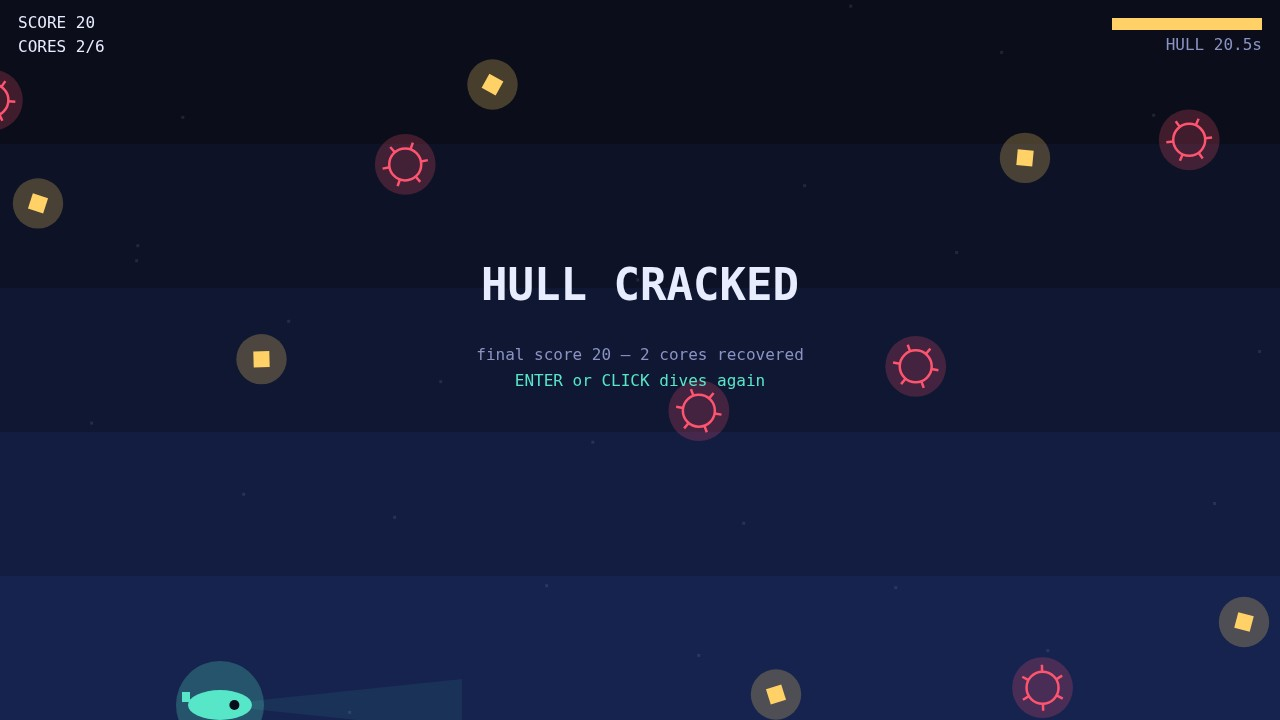
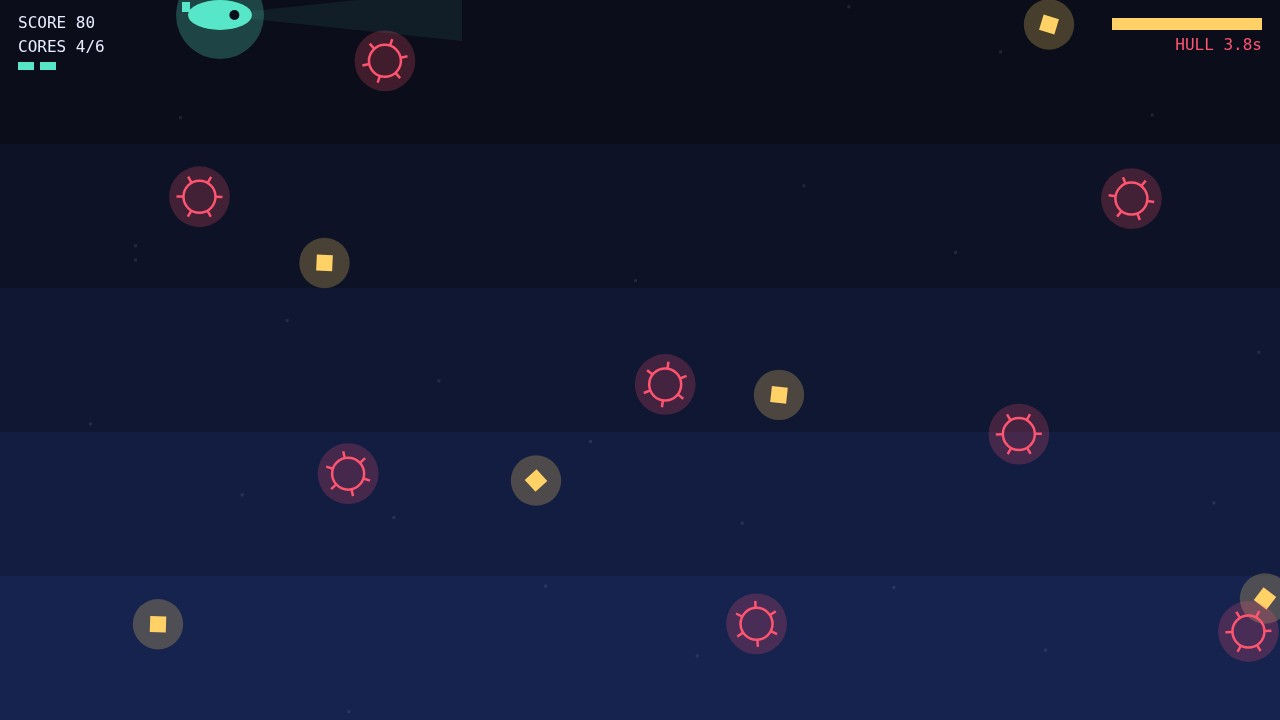
real-browser screenshots of v2 build

diff --git a/game/src/render.js b/game/src/render.js
@@ -1,7 +1,7 @@
-// Canvas renderer: one drawScreen call per frame. Everything is flat neon shapes with glow
+// Canvas renderer: one drawFrame call per frame. Everything is flat neon shapes with glow
 // circles — no image assets, so the whole game stays source the dossier can show.
-import { CORE, CREATURE, ENERGY_MAX, FIELD, HUD, MINE, PALETTE, SUB, VAULT } from './config.js';
-import { KIND_CORE, KIND_CREATURE, KIND_MINE, STATE_DEAD, STATE_PAUSED, STATE_PLAYING, STATE_TITLE, STATE_WIN } from './world.js';
+import { ENERGY_MAX, FIELD, HUD, PALETTE, VAULT } from './config.js';
+import { KIND_CORE, KIND_CREATURE, KIND_MINE, STATE_DEAD, STATE_PAUSED, STATE_TITLE, STATE_WIN } from './world.js';
 
 function glow(context, x, y, radius, colour) {
   context.fillStyle = colour;
@@ -42,7 +42,6 @@ function drawMine(context, item) {
   context.beginPath();
   context.arc(item.x, item.y, item.radius, 0, Math.PI * 2);
   context.stroke();
-  // spikes
   for (let spike = 0; spike < 6; spike += 1) {
     const angle = item.phase * 0.4 + (spike / 6) * Math.PI * 2;
     context.beginPath();
@@ -68,7 +67,7 @@ function drawCreature(context, item) {
   context.beginPath();
   context.ellipse(item.x, item.y, item.radius, item.radius * 0.62, 0, 0, Math.PI * 2);
   context.fill();
-  // lure
+  // glowing lure
   context.strokeStyle = PALETTE.creature;
   context.lineWidth = 2;
   context.beginPath();
@@ -92,7 +91,6 @@ function drawVault(context, vault) {
   context.strokeStyle = PALETTE.vault;
   context.lineWidth = 4;
   context.strokeRect(vault.x - 46, vault.y - 60, 92, 120);
-  // fill showing hold progress
   const progress = Math.min(1, vault.hold / VAULT.openTime);
   context.fillStyle = PALETTE.vaultGlow;
   context.fillRect(vault.x - 46, vault.y + 60 - 120 * progress, 92, 120 * progress);
@@ -100,6 +98,7 @@ function drawVault(context, vault) {
   context.font = HUD.font;
   context.textAlign = 'center';
   context.fillText(progress > 0 ? `CRACKING ${Math.floor(progress * 100)}%` : 'VAULT', vault.x, vault.y - 70);
+  context.textAlign = 'left';
 }
 
 function drawBackground(context, time) {
@@ -110,7 +109,7 @@ function drawBackground(context, time) {
   // drifting motes
   context.fillStyle = 'rgba(232,236,255,0.10)';
   for (let mote = 0; mote < 26; mote += 1) {
-    const x = ((mote * 173 + time * (12 + mote % 5 * 6)) % (FIELD.width + 40)) - 20;
+    const x = ((mote * 173 + time * (12 + (mote % 5) * 6)) % (FIELD.width + 40)) - 20;
     const y = (mote * 251 + Math.sin(time * 0.6 + mote) * 20) % FIELD.height;
     context.fillRect(x, y, 3, 3);
   }
@@ -122,17 +121,14 @@ function drawHud(context, state) {
   context.font = HUD.font;
   context.fillText(`SCORE ${state.score}`, HUD.pad, 28);
   context.fillText(`CORES ${state.cores}/${VAULT.requiredCores}`, HUD.pad, 52);
-  // hull pips
   for (let pip = 0; pip < state.hull; pip += 1) {
     context.fillStyle = PALETTE.good;
     context.fillRect(HUD.pad + pip * 22, 62, 16, 8);
   }
-  // energy bar
   context.fillStyle = 'rgba(232,236,255,0.18)';
   context.fillRect(FIELD.width - 168, HUD.pad, 150, 12);
   context.fillStyle = state.energy > 25 ? PALETTE.core : PALETTE.danger;
   context.fillRect(FIELD.width - 168, HUD.pad, 150 * (state.energy / ENERGY_MAX), 12);
-  // pressure clock
   context.fillStyle = state.pressure < 15 ? PALETTE.danger : PALETTE.dim;
   context.textAlign = 'right';
   context.fillText(`HULL ${state.pressure.toFixed(1)}s`, FIELD.width - HUD.pad, 50);
@@ -166,8 +162,7 @@ export function drawFrame(context, world, time) {
     ], time);
     return;
   }
-  const vaultVisible = state.cores >= VAULT.requiredCores;
-  if (vaultVisible) drawVault(context, state.vault);
+  if (state.cores >= VAULT.requiredCores) drawVault(context, state.vault);
   for (let index = 0; index < state.items.length; index += 1) {
     const item = state.items[index];
     if (!item.active) continue;
@@ -186,7 +181,7 @@ export function drawFrame(context, world, time) {
     ], time);
   } else if (state.screen === STATE_WIN) {
     centerBlock(context, 'VAULT CRACKED', [
-      `you escaped with ${state.score} points and ${(VAULT.openTime - state.vault.hold + state.vault.hold).toFixed(0)}s`,
+      `you escaped with ${state.score} points`,
       `hull remaining ${state.hull} — ENTER or CLICK dives again`,
     ], time);
   }

diff --git a/game/src/world.js b/game/src/world.js
@@ -96,9 +96,9 @@ export function createWorld(random) {
 
   function overlapsSub(item) {
     const halfW = sub.width / 2, halfH = sub.height / 2;
-    const cx = Math.max(sub.x - halfW, Math.min(item.x, sub.x + halfW));
-    const cy = Math.max(sub.y - halfH, Math.min(item.y, sub.y + halfH));
-    const dx = item.x - cx, dy = item.y - cy;
+    const nearestX = Math.max(sub.x - halfW, Math.min(item.x, sub.x + halfW));
+    const nearestY = Math.max(sub.y - halfH, Math.min(item.y, sub.y + halfH));
+    const dx = item.x - nearestX, dy = item.y - nearestY;
     return dx * dx + dy * dy <= item.radius * item.radius;
   }
 
@@ -115,18 +115,14 @@ export function createWorld(random) {
     state.pressure = Math.max(0, state.pressure - dt);
     if (state.pressure === 0) {
       state.screen = STATE_DEAD;
-      events |= EVENT_OVER;
-      return events;
+      return events | EVENT_OVER;
     }
 
     // submarine movement; boost costs energy and doubles speed
     sub.boosting = boost && state.energy > 1;
     const speed = sub.boosting ? SUB.boostSpeed : SUB.speed;
-    if (sub.boosting) {
-      state.energy = Math.max(0, state.energy - SUB.boostDrain * dt);
-    } else {
-      state.energy = Math.min(ENERGY_MAX, state.energy + ENERGY_REGEN * dt);
-    }
+    if (sub.boosting) state.energy = Math.max(0, state.energy - SUB.boostDrain * dt);
+    else state.energy = Math.min(ENERGY_MAX, state.energy + ENERGY_REGEN * dt);
     sub.x = Math.max(sub.width / 2, Math.min(FIELD.width - sub.width / 2, sub.x + moveX * speed * dt));
     sub.y = Math.max(sub.height / 2, Math.min(FIELD.height - sub.height / 2, sub.y + moveY * speed * dt));
     if (sub.grace > 0) sub.grace = Math.max(0, sub.grace - dt);
@@ -149,7 +145,7 @@ export function createWorld(random) {
       state.creatureTimer = 18 + random() * 14;
     }
 
-    // the vault drifts in once the core quota is met
+    // the vault drifts in once the core quota is met; holding in its beam cracks it
     if (state.cores >= VAULT.requiredCores) {
       vault.x -= VAULT.drift * dt;
       const inside = sub.x > vault.x - 40 && sub.x < vault.x + 40 && Math.abs(sub.y - vault.y) < 52;
@@ -172,11 +168,8 @@ export function createWorld(random) {
       item.phase += dt * 3;
       item.x += item.vx * dt;
       item.y += item.vy * dt;
-      if (item.kind === KIND_CREATURE) {
-        item.y += Math.sin(item.phase) * CREATURE.wobble * dt;
-      } else if (item.kind === KIND_MINE) {
-        item.y += Math.sin(item.phase * 0.6) * 14 * dt;
-      }
+      if (item.kind === KIND_CREATURE) item.y += Math.sin(item.phase) * CREATURE.wobble * dt;
+      else if (item.kind === KIND_MINE) item.y += Math.sin(item.phase * 0.6) * 14 * dt;
       if (item.x < -item.radius * 2) { item.active = false; continue; }
 
       if (overlapsSub(item)) {
@@ -185,7 +178,7 @@ export function createWorld(random) {
           state.cores += 1;
           state.score += CORE.score;
           state.energy = Math.min(ENERGY_MAX, state.energy + CORE.energy);
-          // every third core also patches the hull, rewarding aggressive play
+          // every third core patches one hull point, rewarding aggressive collection
           if (state.cores % 3 === 0 && state.hull < SUB.hullMax) state.hull += 1;
           events |= EVENT_CORE;
         } else if (sub.grace === 0) {
@@ -207,5 +200,5 @@ export function createWorld(random) {
     return events;
   }
 
-  return { state, start, step, reset };
+  return { state, start, reset, step };
 }

diff --git a/game/src/main.js b/game/src/main.js
@@ -2,11 +2,11 @@
 // confirm presses between title, playing, paused, dead and win screens. The world never
 // touches the DOM; this file is the only one that does.
 import { FIELD, STEP } from './config.js';
-import { initInput, isDown, wasPressed, endFrame } from './input.js';
+import { initInput, isDown, endFrame } from './input.js';
 import { drawFrame } from './render.js';
 import { makeRandom } from './random.js';
 import { createWorld, EVENT_CORE, EVENT_CREATURE, EVENT_HIT, EVENT_OVER, EVENT_WIN } from './world.js';
-import { onCore, onHit, onLose, onVaultHold, onWin } from './audio.js';
+import { onCore, onHit, onLose, onWin } from './audio.js';
 
 const canvas = document.getElementById('game');
 const context = canvas.getContext('2d');
@@ -27,12 +27,15 @@ function resize() {
 window.addEventListener('resize', resize);
 resize();
 
-const random = makeRandom((Date.now() ^ (Math.floor(Math.random() * 0xffffffff))) >>> 0);
+const random = makeRandom((Date.now() ^ Math.floor(Math.random() * 0xffffffff)) >>> 0);
 const world = createWorld(random);
+
+// Exposed for console inspection of a live run; nothing reads it to skip the rules.
+window.neonDepths = world;
 
 initInput(canvas, (key) => {
   if (key === 'confirm') {
-    if (world.state.screen === 'title' || world.state.screen === 'dead' || world.state.screen === 'win') {
+    if (world.state.screen !== 'playing' && world.state.screen !== 'paused') {
       world.start();
       status.textContent = 'Dive started. Steer with arrow keys or WASD, hold Shift to boost.';
     }
@@ -49,10 +52,6 @@ let last = performance.now();
 let accumulator = 0;
 let clock = 0;
 
-// Exposed for the captured screenshots and for anyone poking at the game from the console:
-// read the live world to see how it is tuned, never to skip its rules.
-window.neonDepths = world;
-
 function frame(now) {
   const elapsed = Math.min(0.25, (now - last) / 1000);
   last = now;
@@ -63,12 +62,10 @@ function frame(now) {
     const moveX = (isDown('right') ? 1 : 0) - (isDown('left') ? 1 : 0);
     const moveY = (isDown('down') ? 1 : 0) - (isDown('up') ? 1 : 0);
     const events = world.step(moveX, moveY, isDown('boost'), STEP);
-    if (events & (EVENT_CORE | EVENT_HIT | EVENT_CREATURE | EVENT_OVER | EVENT_WIN)) {
-      if (events & EVENT_CORE) onCore();
-      if (events & (EVENT_HIT | EVENT_CREATURE)) onHit();
-      if (events & EVENT_OVER) onLose();
-      if (events & EVENT_WIN) onWin();
-    }
+    if (events & EVENT_CORE) onCore();
+    if (events & (EVENT_HIT | EVENT_CREATURE)) onHit();
+    if (events & EVENT_OVER) onLose();
+    if (events & EVENT_WIN) onWin();
     accumulator -= STEP;
   }
   endFrame();

diff --git a/game/src/random.js b/game/src/random.js
@@ -1,5 +1,4 @@
 // Deterministic PRNG (mulberry32) so a run seeded with the same number replays exactly.
-// The run record stores the seed; the gate's determinism check relies on this module.
 
 export function makeRandom(seed) {
   let a = seed >>> 0;
@@ -9,14 +8,4 @@ export function makeRandom(seed) {
     t = (t + Math.imul(t ^ (t >>> 7), 61 | t)) ^ t;
     return ((t ^ (t >>> 14)) >>> 0) / 4294967296;
   };
-}
-
-/** Pick a random integer in [0, n). */
-export function randInt(random, n) {
-  return Math.floor(random() * n);
-}
-
-/** Pick a random float in [lo, hi). */
-export function randRange(random, lo, hi) {
-  return lo + random() * (hi - lo);
 }

diff --git a/game/src/config.js b/game/src/config.js
@@ -43,12 +43,11 @@ export const CREATURE = {
   speed: 95,
   wobble: 130,
   score: 60,
-  damage: 1,
   firstAt: 30,          // seconds before the first anglerfish spawns
 };
 
 export const VAULT = {
-  requiredCores: 6,     // cores needed to crack the vault
+  requiredCores: 6,     // cores needed before the vault drifts in
   drift: 55,            // vault approaches from the right at this speed
   openTime: 3.0,        // seconds you must hold inside the vault beam to crack it
 };

diff --git a/game/src/audio.js b/game/src/audio.js
@@ -30,7 +30,6 @@ export function play(freq, duration, type = 'square', volume = 0.12) {
 
 export function onCore() { play(880, 0.12, 'square', 0.10); }
 export function onHit() { play(180, 0.25, 'sawtooth', 0.14); }
-export function onVaultHold() { play(520, 0.08, 'triangle', 0.08); }
 export function onWin() { play(1320, 0.5, 'triangle', 0.14); }
 export function onLose() { play(110, 0.6, 'sawtooth', 0.16); }
 

diff --git a/game/src/input.js b/game/src/input.js
@@ -1,4 +1,4 @@
-// Keyboard + mouse input, edge-detected: the world only sees presses that happened this frame.
+// Keyboard + pointer input, edge-detected: the world only sees presses that happened this frame.
 
 const held = new Set();
 const pressed = new Set();

diff --git a/BRIEF.md b/BRIEF.md
@@ -1,0 +1,32 @@
+# Neon Depths — build brief
+
+Make an original browser arcade game, "Neon Depths": you steer a small submarine through five
+depth bands of dark ocean, dodging mines and anglerfish, collecting energy cores, and finally
+holding position inside a vault beam long enough to crack it before a 75-second pressure clock
+runs out.
+
+## Hard requirements
+- Plain static files under `game/`, no build step: `game/index.html` opens in desktop Chrome and
+  plays with keyboard + mouse and NO network request. Every script/asset is a file under `game/`
+  or a `data:` URI. No libraries needed; write ES modules yourself.
+- Complete game loop: title screen with controls, play with a HUD (score, cores collected, hull
+  pips, energy bar, pressure clock), a way to win (crack the vault), a way to lose (hull hits or
+  clock), a results screen, and restart on Enter/click.
+- Sound: synthesised with WebAudio (no audio files).
+- Original art direction: flat neon shapes on dark blue bands, glow halos, drifting motes.
+- Split the source into small ES modules that each do one job, named for that job
+  (config, input, audio, world/simulation, render, main loop).
+- `main.ts` at the repo root: Node 22, standard library only. It copies `game/` and
+  `screenshots/` to `$MAKEFUN_OUTPUT_DIR` (default `/output`) and writes `dossier.json` there
+  with `buildDossier` imported from `./vendor/makefun-game.ts`.
+- `LICENSE` already exists (MIT); do not touch it. `vendor/makefun-game.ts` is the kit's copy —
+  never edit it.
+
+## Tuning targets
+- Sub speeds 320 px/s, 640 while boosting (boost drains energy, energy regenerates).
+- 3 hull points, 1.2 s of grace after a hit; every third core collected repairs one hull point.
+- Mines accelerate as the clock runs; anglerfish start arriving at 30 s.
+- 6 cores gate the vault; the vault drifts in from the right and needs 3 s of holding in the beam.
+
+Write the whole game yourself in this session, run it once, and leave the repository in a state
+where `mkdir -p out && MAKEFUN_OUTPUT_DIR=out node main.ts` succeeds.
